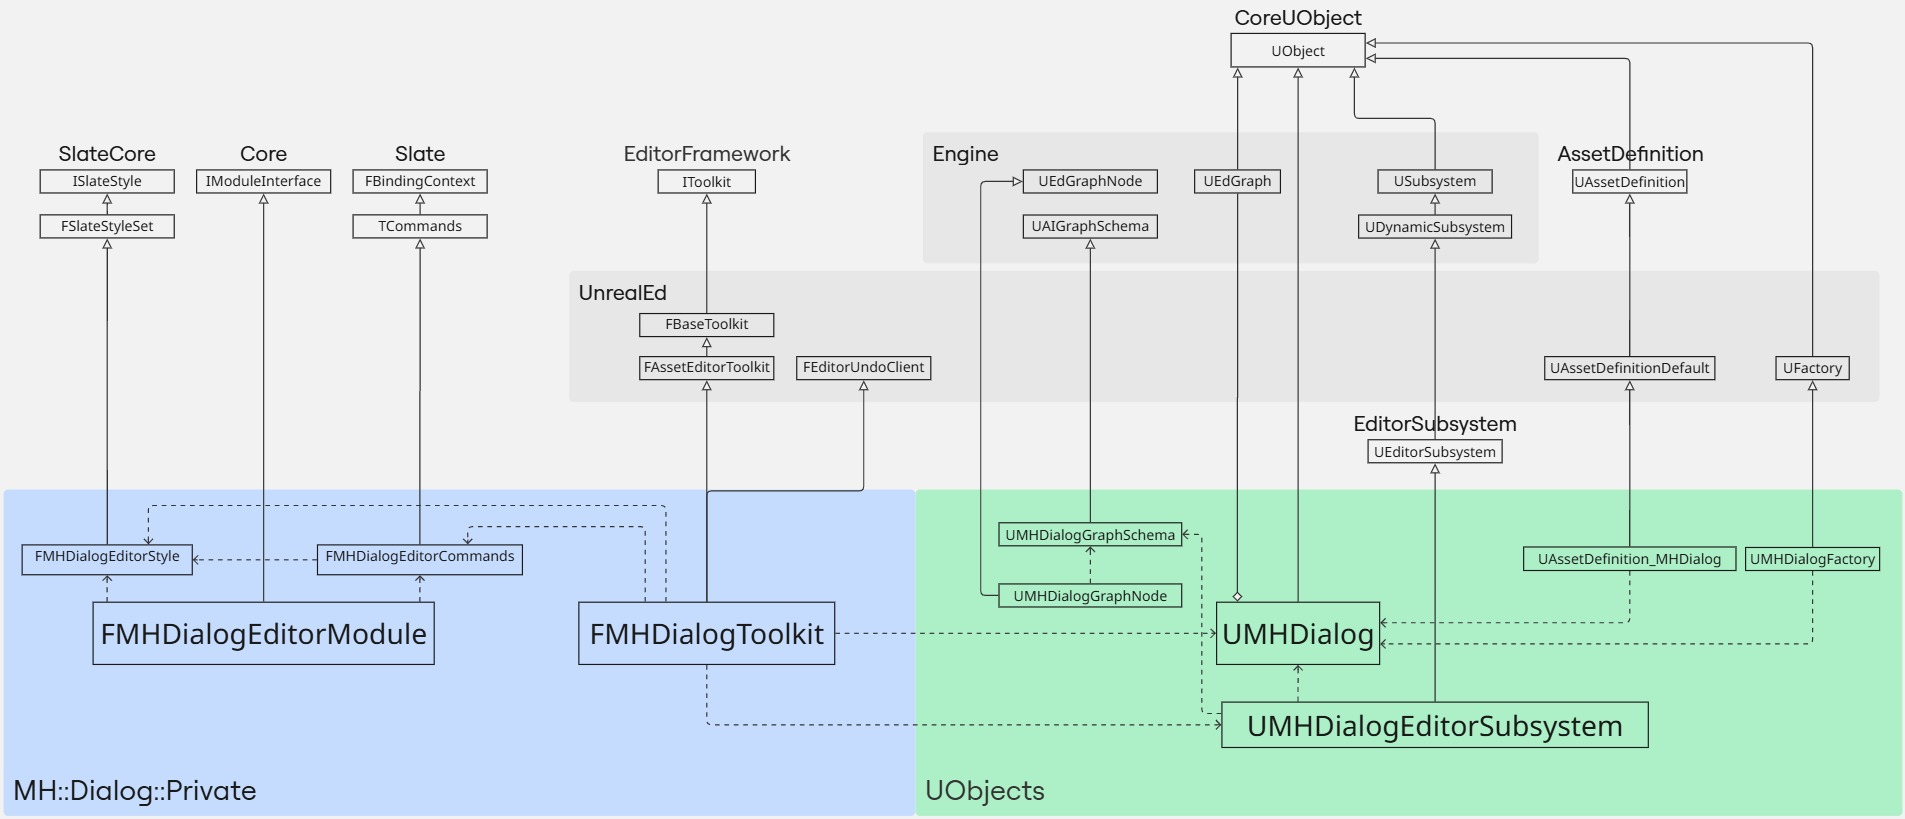
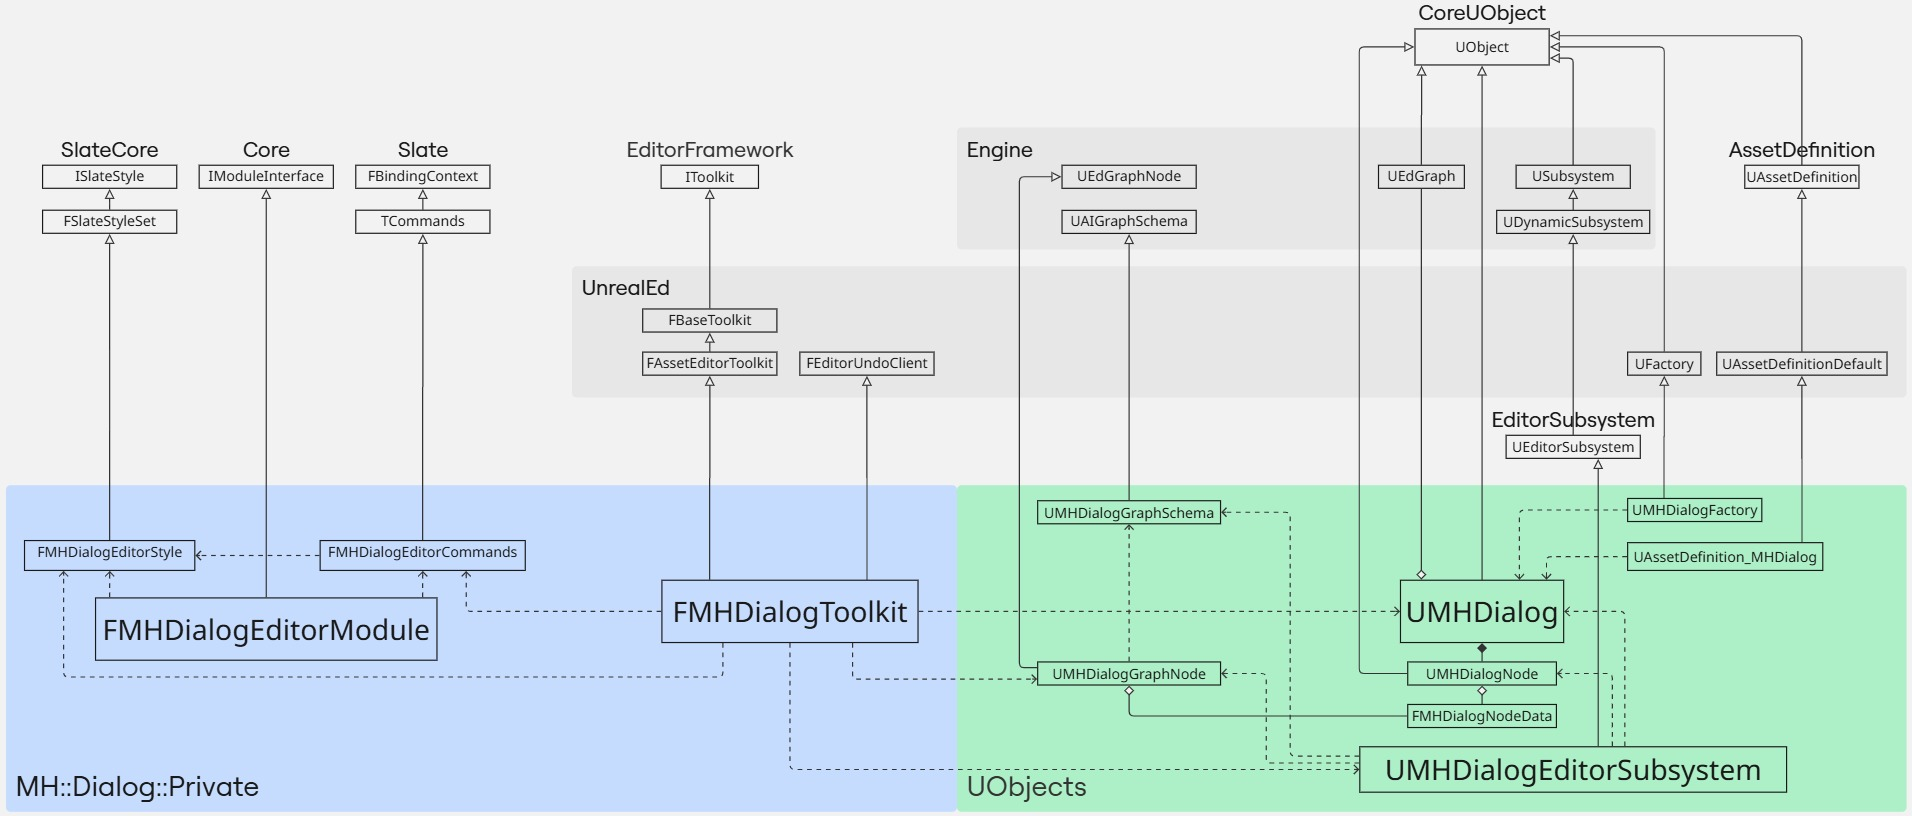
create MHDialogNodeData, add details view in toolkit to edit it and update saving process

diff --git a/Source/MHDialogEditor/Private/Toolkit/MHDialogToolkit.cpp b/Source/MHDialogEditor/Private/Toolkit/MHDialogToolkit.cpp
@@ -2,12 +2,14 @@
 
 #include "Toolkit/MHDialogToolkit.h"
 
+#include "Graph/MHDialogGraphNode.h"
 #include "MHDialog.h"
 #include "MHDialogEditorColors.h"
 #include "MHDialogEditorCommands.h"
 #include "MHDialogEditorLog.h"
 #include "MHDialogEditorStyle.h"
 #include "MHDialogEditorSubsystem.h"
+#include "MHDialogNode.h"
 
 #define LOCTEXT_NAMESPACE "MHDialogToolkit"
 
@@ -64,6 +66,9 @@ void FMHDialogToolkit::InitDialogEditor(const EToolkitMode::Type Mode,
 
 	GEditor->GetEditorSubsystem<UMHDialogEditorSubsystem>()->InitAsset(DialogAsset);
 
+	auto Delegate		 = FOnGraphChanged::FDelegate::CreateSP(this, &FMHDialogToolkit::OnGraphUpdated);
+	OnGraphUpdatedHandle = DialogAsset->Graph->AddOnGraphChangedHandler(MoveTemp(Delegate));
+
 	CreateWidgets();
 	RegisterToolbar();
 	RegisterCommands();
@@ -76,6 +81,11 @@ void FMHDialogToolkit::InitDialogEditor(const EToolkitMode::Type Mode,
 										 /* bCreateDefaultStandaloneMenu */ true,
 										 /* bCreateDefaultToolbar */ true,
 										 DialogAsset);
+}
+
+void FMHDialogToolkit::OnClose()
+{
+	DialogAsset->Graph->RemoveOnGraphChangedHandler(OnGraphUpdatedHandle);
 }
 
 void FMHDialogToolkit::RegisterTabSpawners(const TSharedRef<FTabManager>& InTabManager)
@@ -133,6 +143,10 @@ void FMHDialogToolkit::CreateWidgets()
 {
 	DialogAssetDetailsView = CreateDetailsView();
 	DialogAssetDetailsView->SetObject(DialogAsset);
+
+	DialogNodeDetailsView = CreateDetailsView();
+	DialogNodeDetailsView->OnFinishedChangingProperties().AddSP(this, &FMHDialogToolkit::OnFinishedChangingDetails);
+	DialogNodeDetailsView->SetObject(nullptr);
 }
 
 void FMHDialogToolkit::RegisterToolbar()
@@ -204,6 +218,12 @@ TSharedRef<SDockTab> FMHDialogToolkit::SpawnTab_Details(const FSpawnTabArgs& Arg
 			[
 				DialogAssetDetailsView.ToSharedRef()
 			]
+			+SVerticalBox::Slot()
+			.Padding(0, 8, 0, 0)
+			.AutoHeight()
+			[
+				DialogNodeDetailsView.ToSharedRef()
+			]
 		];
 	// clang-format on
 }
@@ -213,12 +233,16 @@ TSharedRef<SDockTab> FMHDialogToolkit::SpawnTab_Graph(const FSpawnTabArgs& Args)
 	FGraphAppearanceInfo AppearanceInfo;
 	AppearanceInfo.CornerText = LOCTEXT("GraphCornerText", "DIALOGUE SYSTEM");
 
+	SGraphEditor::FGraphEditorEvents Events;
+	Events.OnSelectionChanged = SGraphEditor::FOnSelectionChanged::CreateSP(this, &FMHDialogToolkit::OnSelectedNodesChanged);
+
 	// clang-format off
 	return SNew(SDockTab)
 		.Label(LOCTEXT("GraphLabel", "Dialogue Graph"))
 		[
 			SAssignNew(UpdateGraphEdPtr, SGraphEditor)
 			.Appearance(AppearanceInfo)
+			.GraphEvents(Events)
 			.GraphToEdit(DialogAsset->Graph)
 		];
 	// clang-format on
@@ -248,5 +272,29 @@ void FMHDialogToolkit::Redo()
 		Editor->RedoTransaction();
 	}
 }
+
+void FMHDialogToolkit::OnSelectedNodesChanged(const FGraphPanelSelectionSet& NewSelection)
+{
+	DialogNodeDetailsView->SetObject(nullptr);
+	for (UObject* Object : NewSelection)
+	{
+		if (UMHDialogGraphNode* GraphNode = Cast<UMHDialogGraphNode>(Object))
+		{
+			DialogNodeDetailsView->SetObject(GraphNode);
+			return;
+		}
+	}
+}
+
+void FMHDialogToolkit::OnGraphUpdated(const FEdGraphEditAction&)
+{
+	GEditor->GetEditorSubsystem<UMHDialogEditorSubsystem>()->UpdateAsset(DialogAsset);
+}
+
+void FMHDialogToolkit::OnFinishedChangingDetails(const FPropertyChangedEvent& Event)
+{
+	DialogAsset->Graph->NotifyGraphChanged();
+}
+
 }  // namespace MH::Dialog::Private
 #undef LOCTEXT_NAMESPACE

diff --git a/Source/MHDialogEditor/Private/MHDialogEditorSubsystem.cpp b/Source/MHDialogEditor/Private/MHDialogEditorSubsystem.cpp
@@ -3,9 +3,12 @@
 #include "MHDialogEditorSubsystem.h"
 
 #include "EdGraph/EdGraph.h"
+#include "Graph/MHDialogGraphNode.h"
 #include "Graph/MHDialogGraphSchema.h"
 #include "Kismet2/BlueprintEditorUtils.h"
 #include "MHDialog.h"
+#include "MHDialogEditorLog.h"
+#include "MHDialogNode.h"
 
 void UMHDialogEditorSubsystem::InitAsset(UMHDialog* Asset) const
 {
@@ -17,4 +20,57 @@ void UMHDialogEditorSubsystem::InitAsset(UMHDialog* Asset) const
 															 UMHDialogGraphSchema::StaticClass());
 		Asset->Graph->GetSchema()->CreateDefaultNodesForGraph(*Asset->Graph);
 	}
+}
+
+void UMHDialogEditorSubsystem::UpdateAsset(UMHDialog* Asset) const
+{
+	check(Asset);
+	UEdGraph* Graph = Asset->Graph;
+	check(Graph);
+
+	TMap<FGuid, UMHDialogNode*> AssetNodeMap;
+
+	// recreate all nodes
+	Asset->Root = nullptr;
+	for (UEdGraphNode* Node : Graph->Nodes)
+	{
+		UMHDialogGraphNode* GraphNode = Cast<UMHDialogGraphNode>(Node);
+		if (!IsValid(GraphNode))
+		{
+			continue;
+		}
+		UMHDialogNode* AssetNode = NewObject<UMHDialogNode>(Asset);
+		AssetNode->Data			 = GraphNode->Data;
+
+		if (GraphNode->bRootNode)
+		{
+			Asset->Root = AssetNode;
+		}
+
+		AssetNodeMap.Add(GraphNode->NodeGuid, AssetNode);
+	}
+	checkf(Asset->Root, TEXT("Invalid rebuild asset without root node"));
+
+	// link all nodes
+	for (UEdGraphNode* Node : Graph->Nodes)
+	{
+		UMHDialogGraphNode* GraphNode = Cast<UMHDialogGraphNode>(Node);
+		if (!IsValid(GraphNode))
+		{
+			continue;
+		}
+		UMHDialogNode* AssetNode = AssetNodeMap[GraphNode->NodeGuid];
+
+		if (UEdGraphPin* OutputPin = GraphNode->GetOutputPin())
+		{
+			for (UEdGraphPin* InputPin : OutputPin->LinkedTo)
+			{
+				const FGuid& NextNodeId		  = InputPin->GetOwningNode()->NodeGuid;
+				UMHDialogNode* AssetChildNode = AssetNodeMap[NextNodeId];
+				AssetNode->ChildNodes.Add(AssetChildNode);
+			}
+		}
+	}
+
+	UE_LOG(LogMHDialogEditor, Display, TEXT("Dialog asset updated"));
 }

diff --git a/Source/MHDialogEditor/Private/Toolkit/MHDialogToolkit.h b/Source/MHDialogEditor/Private/Toolkit/MHDialogToolkit.h
@@ -29,6 +29,7 @@ class FMHDialogToolkit final : public FAssetEditorToolkit, public FEditorUndoCli
 	virtual FString GetWorldCentricTabPrefix() const override;
 	virtual FLinearColor GetWorldCentricTabColorScale() const override;
 
+	virtual void OnClose() override;
 	virtual void RegisterTabSpawners(const TSharedRef<FTabManager>& TabManager) override;
 	virtual void UnregisterTabSpawners(const TSharedRef<FTabManager>& TabManager) override;
 	//~ End FAssetEditorToolkit interface
@@ -46,7 +47,10 @@ class FMHDialogToolkit final : public FAssetEditorToolkit, public FEditorUndoCli
 	TObjectPtr<UMHDialog> DialogAsset;
 
 	TSharedPtr<IDetailsView> DialogAssetDetailsView;
+	TSharedPtr<IDetailsView> DialogNodeDetailsView;
 	TWeakPtr<SGraphEditor> UpdateGraphEdPtr;
+
+	FDelegateHandle OnGraphUpdatedHandle;
 
 	void CreateWidgets();
 	void RegisterToolbar();
@@ -58,6 +62,9 @@ class FMHDialogToolkit final : public FAssetEditorToolkit, public FEditorUndoCli
 
 	void Undo();
 	void Redo();
+	void OnSelectedNodesChanged(const FGraphPanelSelectionSet& NewSelection);
+	void OnFinishedChangingDetails(const FPropertyChangedEvent& Event);
+	void OnGraphUpdated(const FEdGraphEditAction& Action);
 };
 
 }  // namespace MH::Dialog::Private

diff --git a/Source/MHDialogEditor/Private/Graph/MHDialogGraphSchema.cpp b/Source/MHDialogEditor/Private/Graph/MHDialogGraphSchema.cpp
@@ -12,7 +12,8 @@ void UMHDialogGraphSchema::CreateDefaultNodesForGraph(UEdGraph& Graph) const
 {
 	FGraphNodeCreator<UMHDialogGraphNode> NodeCreator(Graph);
 	UMHDialogGraphNode* Node = NodeCreator.CreateNode(false);
-	Node->bRootNode			 = true;
+	Node->MarkAsRoot();
+	Node->SetNodeTitle(LOCTEXT("RootNodeTitle", "How're you doing?"));
 	NodeCreator.Finalize();
 }
 
@@ -50,18 +51,17 @@ UEdGraphNode* FMHDialogGraphSchemaAction_NewNode::PerformAction(UEdGraph* Parent
 	FGraphNodeCreator<UMHDialogGraphNode> NodeCreator(*ParentGraph);
 	const FScopedTransaction Transaction(LOCTEXT("NewNode", "Dialog Editor: New Node"));
 	ParentGraph->Modify();
-	if (FromPin)
-	{
-		FromPin->Modify();
-	}
 
 	UMHDialogGraphNode* Node = NodeCreator.CreateNode(/*bCreatedByUser*/ true);
 	Node->SetPosition(Location);
+	Node->SetNodeTitle(LOCTEXT("NewNodeTitle", "Fine"));
 	NodeCreator.Finalize();
 
 	if (FromPin)
 	{
+		FromPin->Modify();
 		Node->AutowireNewNode(FromPin);
+		ParentGraph->NotifyGraphChanged();
 	}
 
 	return Node;

diff --git a/Source/MHDialogEditor/Private/Graph/MHDialogGraphNode.cpp b/Source/MHDialogEditor/Private/Graph/MHDialogGraphNode.cpp
@@ -7,7 +7,7 @@
 
 FText UMHDialogGraphNode::GetNodeTitle(ENodeTitleType::Type TitleType) const
 {
-	return bRootNode ? FText::FromString(TEXT("Root Node")) : FText::FromString(TEXT("Node"));
+	return Data.Content;
 }
 
 FLinearColor UMHDialogGraphNode::GetNodeTitleColor() const
@@ -25,9 +25,6 @@ void UMHDialogGraphNode::AllocateDefaultPins()
 
 	UEdGraphPin* InputPin			 = CreatePin(EEdGraphPinDirection::EGPD_Output, TEXT("Output"), NAME_None);
 	InputPin->PinType.PinSubCategory = UMHDialogGraphSchema::PC_Default;
-
-	GetGraph()->NotifyGraphChanged();
-	GetGraph()->Modify();
 }
 
 void UMHDialogGraphNode::AutowireNewNode(UEdGraphPin* FromPin)
@@ -91,4 +88,9 @@ UEdGraphPin* UMHDialogGraphNode::GetOutputPin(int32 InputIndex) const
 	}
 
 	return nullptr;
+}
+
+void UMHDialogGraphNode::SetNodeTitle(FText Title)
+{
+	Data.Content = Title;
 }

diff --git a/Source/MHDialogEditor/Private/Graph/MHDialogGraphNode.h b/Source/MHDialogEditor/Private/Graph/MHDialogGraphNode.h
@@ -4,13 +4,18 @@
 
 #include "CoreMinimal.h"
 #include "EdGraph/EdGraphNode.h"
+#include "MHDialogNodeData.h"
 
 #include "MHDialogGraphNode.generated.h"
+
+class UMHDialogEditorSubsystem;
 
 UCLASS()
 class UMHDialogGraphNode : public UEdGraphNode
 {
 	GENERATED_BODY()
+
+	friend UMHDialogEditorSubsystem;
 
 	//~ Begin UEdGraphNode interface
   public:
@@ -20,11 +25,16 @@ class UMHDialogGraphNode : public UEdGraphNode
 	virtual void AutowireNewNode(UEdGraphPin* FromPin) override;
 	//~ End UEdGraphNode interface
 
-  private:
 	UEdGraphPin* GetInputPin(int32 InputIndex = 0) const;
 	UEdGraphPin* GetOutputPin(int32 InputIndex = 0) const;
 
-  public:
+	void MarkAsRoot() { bRootNode = true; }
+	void SetNodeTitle(FText Title);
+
+  private:
 	UPROPERTY()
 	bool bRootNode = false;
+
+	UPROPERTY(EditAnywhere)
+	FMHDialogNodeData Data;
 };

diff --git a/Source/MHDialog/Public/MHDialog.h b/Source/MHDialog/Public/MHDialog.h
@@ -6,18 +6,26 @@
 
 #include "MHDialog.generated.h"
 
-UCLASS()
+class UMHDialogNode;
+
+UCLASS(BlueprintType)
 class MHDIALOG_API UMHDialog : public UObject
 {
 	GENERATED_BODY()
 
-	UPROPERTY(EditAnywhere)
+  protected:
+	UPROPERTY(EditAnywhere, BlueprintReadOnly)
 	FText Topic = NSLOCTEXT("UMHDialog", "DefaultTopic", "Topic");
+
+	UPROPERTY(BlueprintReadOnly)
+	TObjectPtr<UMHDialogNode> Root;
 
   public:
 	FText GetTopic() const { return Topic; }
 
 #if WITH_EDITORONLY_DATA
+
+	friend class UMHDialogEditorSubsystem;
 
 	/** Graph for editor*/
 	UPROPERTY()

diff --git a/Source/MHDialog/Public/MHDialogNode.h b/Source/MHDialog/Public/MHDialogNode.h
@@ -1,0 +1,27 @@
+// created by MetalHeart
+
+#pragma once
+
+#include "CoreMinimal.h"
+#include "MHDialogNodeData.h"
+
+#include "MHDialogNode.generated.h"
+
+UCLASS(BlueprintType)
+class UMHDialogNode : public UObject
+{
+	GENERATED_BODY()
+
+  protected:
+	UPROPERTY(BlueprintReadOnly)
+	TArray<TObjectPtr<UMHDialogNode>> ChildNodes;
+
+	UPROPERTY(BlueprintReadOnly)
+	FMHDialogNodeData Data;
+
+#if WITH_EDITORONLY_DATA
+
+	friend class UMHDialogEditorSubsystem;
+
+#endif
+};

diff --git a/Source/MHDialog/Public/MHDialogNodeData.h b/Source/MHDialog/Public/MHDialogNodeData.h
@@ -1,0 +1,19 @@
+// created by MetalHeart
+
+#pragma once
+
+#include "CoreMinimal.h"
+
+#include "MHDialogNodeData.generated.h"
+
+USTRUCT(BlueprintType)
+struct FMHDialogNodeData
+{
+	GENERATED_BODY()
+
+	UPROPERTY(EditAnywhere, BlueprintReadWrite, meta = (MultiLine = "true"))
+	FText Content;
+
+	UPROPERTY(EditAnywhere, BlueprintReadWrite, meta = (ClampMin = "0.0"))
+	float ReadDurationSec = 3.0f;
+};

diff --git a/Source/MHDialogEditor/Private/MHDialogEditorSubsystem.h b/Source/MHDialogEditor/Private/MHDialogEditorSubsystem.h
@@ -20,4 +20,5 @@ class UMHDialogEditorSubsystem final : public UEditorSubsystem
 
   public:
 	void InitAsset(UMHDialog* Asset) const;
+	void UpdateAsset(UMHDialog* Asset) const;
 };
